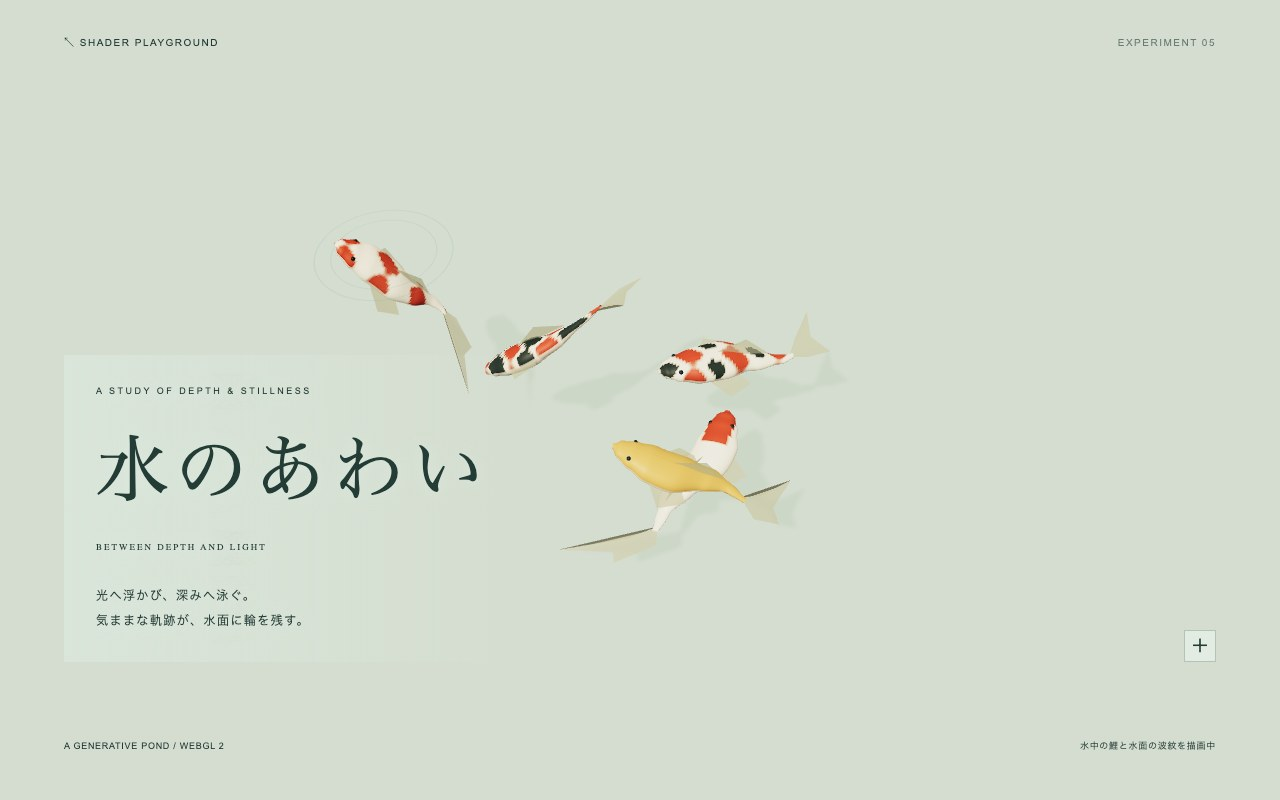
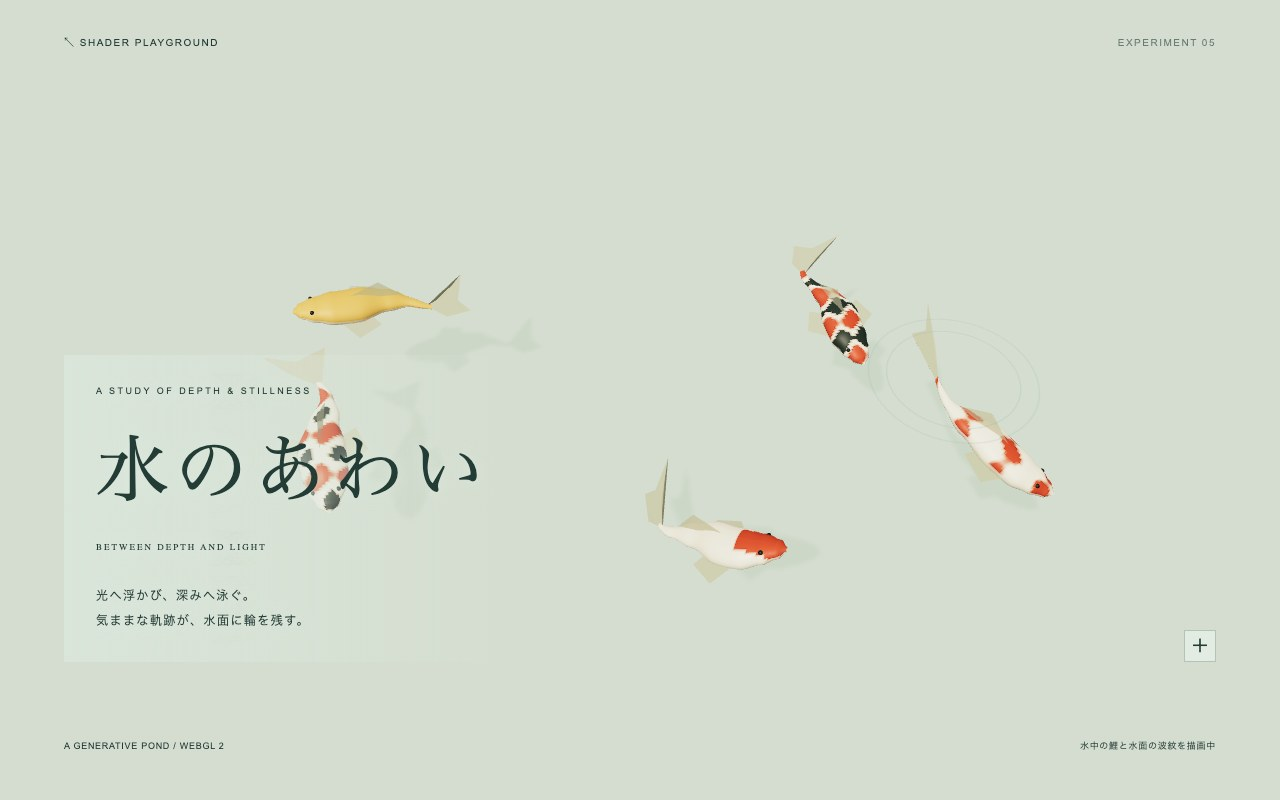
fix: let koi roam independently and steer back at boundaries

diff --git a/koi/fish.js b/koi/fish.js
@@ -26,35 +26,76 @@ export function dartStrength(time, id) {
     const clock = swimClock(time, id) / (5.8 + id * .23), segment = Math.floor(clock);
     return dartSegment(id, segment) ? Math.pow(Math.sin(Math.PI * (clock - segment)), 2) : 0;
 }
-// Seeded waypoints with a C2-continuous B-spline, rather than a closed orbit.
-// Its convex hull keeps the complete path within the swimming volume.
-export function sampleSwimPath(id, time, width, depth, target = new THREE.Vector3()) {
-    const clock = swimClock(time, id) / (5.8 + id * .23), segment = Math.floor(clock);
-    let u = clock - segment;
-    if (dartSegment(id, segment)) {
-        // A straight stroke accelerates in the middle, with C2 joins at both ends.
-        u += .75 / TAU * (-Math.sin(TAU * u) + .5 * Math.sin(2 * TAU * u));
+export function createSwimmer(id) {
+    const position = new THREE.Vector3(), velocity = new THREE.Vector3(), acceleration = new THREE.Vector3();
+    const direction = new THREE.Vector3(), wander = new THREE.Vector3(), desired = new THREE.Vector3(), previousVelocity = new THREE.Vector3();
+    const turn = new THREE.Quaternion(), partialTurn = new THREE.Quaternion();
+    const result = { position: new THREE.Vector3(), velocity, acceleration, dart: 0 };
+    let tick = 0, lastTime = -1, nextChange = 0, choice = 0, speed = .35, oldWidth = 0, oldDepth = 0;
+    function reset(width, depth) {
+        // Start spread out; their subsequent headings and turns stay independent.
+        const placement = id * 2.399963 + .55;
+        position.set(Math.cos(placement) * width * .72, id === 0 ? .94 : -.3 + randomPoint(id, 0, 9) * 1.1, Math.sin(placement) * depth * .72);
+        const angle = randomPoint(id, 0, 11) * TAU;
+        direction.set(Math.cos(angle), .25 * (randomPoint(id, 0, 12) * 2 - 1), Math.sin(angle)).normalize();
+        wander.copy(direction); velocity.copy(direction).multiplyScalar(.35); acceleration.set(0, 0, 0);
+        tick = 0; nextChange = 2 + id * .7; choice = 0; speed = .35; result.dart = 0; oldWidth = width; oldDepth = depth;
     }
-    const weights = [Math.pow(1 - u, 3) / 6, (3*u*u*u - 6*u*u + 4) / 6, (-3*u*u*u + 3*u*u + 3*u + 1) / 6, u*u*u / 6];
-    target.set(0, 0, 0);
-    for (let n = 0; n < 4; n++) {
-        const index = segment + n - 1, weight = weights[n];
-        const offset = id === 1 ? -1 : 3, lineIndex = ((index - offset) % 8 + 8) % 8;
-        if ((id === 1 || id === 4) && lineIndex <= 3) {
-            // Four equally spaced collinear controls give one truly straight leg.
-            const cycle = Math.floor((index - offset) / 8), progress = lineIndex / 3;
-            const direction = randomPoint(id, cycle, 5) > .5 ? 1 : -1;
-            target.x += (progress * 2 - 1) * width * .72 * direction * weight;
-            target.y += THREE.MathUtils.lerp(-.10 + randomPoint(id, cycle, 6) * .5, .25 + randomPoint(id, cycle, 7) * .55, progress) * weight;
-            target.z += (progress * 2 - 1) * depth * .45 * -direction * weight;
-            continue;
+    function update(time, width, depth) {
+        if (lastTime < 0 || time < lastTime) reset(width, depth);
+        if (width !== oldWidth || depth !== oldDepth) {
+            position.x *= width / oldWidth; position.z *= depth / oldDepth;
+            oldWidth = width; oldDepth = depth;
         }
-        const surfaceVisit = ((index + id * 2) % 9 + 9) % 9 < 3;
-        target.x += (randomPoint(id, index, 0) * 2 - 1) * width * .82 * weight;
-        target.y += (surfaceVisit ? 1.04 : -.45 + randomPoint(id, index, 1) * 1.15) * weight;
-        target.z += (randomPoint(id, index, 2) * 2 - 1) * depth * .82 * weight;
+        const dt = 1 / 60;
+        while ((tick + 1) * dt <= time + 1e-9) {
+            const t = ++tick * dt;
+            if (t >= nextChange) {
+                choice++;
+                const yaw = (randomPoint(id, choice, 0) * 2 - 1) * 1.15;
+                wander.copy(direction).applyAxisAngle(new THREE.Vector3(0, 1, 0), yaw);
+                wander.y = (randomPoint(id, choice, 1) * 2 - 1) * .55;
+                wander.normalize(); nextChange = t + 3 + randomPoint(id, choice, 2) * 4;
+            }
+            const clearance = Math.min(width - Math.abs(position.x), depth - Math.abs(position.z));
+            result.dart = dartStrength(t, id) * THREE.MathUtils.smoothstep(clearance, .65, 1.35);
+            desired.copy(direction).lerp(wander, 1 - result.dart);
+            // Only the nearby boundary steers inward; there is no centre target.
+            for (const [axis, bound, margin] of [['x', width, 1.05], ['z', depth, 1.05]]) {
+                const predicted = position[axis] + direction[axis] * .35;
+                const influence = THREE.MathUtils.smoothstep(Math.abs(predicted), bound - margin, bound);
+                desired[axis] -= Math.sign(predicted) * influence * 4;
+            }
+            const predictedY = position.y + direction.y * .7;
+            desired.y += 4 * THREE.MathUtils.smoothstep(-predictedY, .05, .40);
+            desired.y -= 4 * THREE.MathUtils.smoothstep(predictedY, .68, 1.0);
+            desired.y = THREE.MathUtils.clamp(desired.y, -.8, .8); desired.normalize();
+            turn.setFromUnitVectors(direction, desired);
+            partialTurn.identity().rotateTowards(turn, .85 * dt);
+            direction.applyQuaternion(partialTurn).normalize();
+            // Ease vertical motion to zero before the surface/bottom, even when
+            // a simultaneous side-wall turn occupies most of the steering.
+            const maxUp = Math.max(0, (1.02 - position.y) * 1.2 / Math.max(speed, .1));
+            const maxDown = Math.max(0, (position.y + .50) * 1.2 / Math.max(speed, .1));
+            const vertical = THREE.MathUtils.clamp(direction.y, -maxDown, maxUp);
+            const horizontalScale = Math.sqrt(Math.max(0, 1 - vertical * vertical)) / Math.max(Math.hypot(direction.x, direction.z), .0001);
+            direction.x *= horizontalScale; direction.z *= horizontalScale; direction.y = vertical;
+            const targetSpeed = ((.36 + .022 * id) * effort(t, id) + .65 * result.dart) * (.38 + .62 * THREE.MathUtils.smoothstep(clearance, .12, .85));
+            speed = THREE.MathUtils.lerp(speed, targetSpeed, 1 - Math.exp(-2 * dt));
+            previousVelocity.copy(velocity); velocity.copy(direction).multiplyScalar(speed);
+            for (const [axis, bound] of [['x', width - .04], ['z', depth - .04]]) {
+                velocity[axis] = THREE.MathUtils.clamp(velocity[axis], -Math.max(0, (position[axis] + bound) * 1.5), Math.max(0, (bound - position[axis]) * 1.5));
+            }
+            direction.copy(velocity).normalize();
+            position.addScaledVector(velocity, dt);
+            acceleration.copy(velocity).sub(previousVelocity).divideScalar(dt);
+        }
+        // Interpolate the substep remainder so rendering is independent of FPS.
+        result.position.copy(position).addScaledVector(velocity, time - tick * dt);
+        lastTime = time;
+        return result;
     }
-    return target;
+    return { update };
 }
 function pattern(x, z, id) {
     const stain = Math.sin(x * 12 + id * 3) + .65 * Math.cos(z * 19 - x * 5 + id);
@@ -116,29 +157,27 @@ export function createFish(id) {
         eye.position.set(.55, .067, sign * .13); group.add(eye); eyes.push(eye);
     }
     group.scale.setScalar(.84 + .06 * Math.sin(id * 2.3));
-    const position = new THREE.Vector3(), before = new THREE.Vector3(), after = new THREE.Vector3();
+    const swimmer = createSwimmer(id);
     const velocity = new THREE.Vector3(), right = new THREE.Vector3(), up = new THREE.Vector3();
     const matrix = new THREE.Matrix4(), roll = new THREE.Quaternion(), orientation = new THREE.Quaternion();
     let previousTime = null;
     const worldUp = new THREE.Vector3(0, 1, 0), localX = new THREE.Vector3(1, 0, 0);
     function update(t, bend, width, depth) {
-        sampleSwimPath(id, t, width, depth, position);
-        sampleSwimPath(id, t - .04, width, depth, before); sampleSwimPath(id, t + .04, width, depth, after);
-        velocity.subVectors(after, before);
-        const pace = velocity.length() / .08;
+        const motion = swimmer.update(t, width, depth);
+        velocity.copy(motion.velocity);
+        const pace = velocity.length();
         velocity.normalize();
         right.crossVectors(velocity, worldUp).normalize(); up.crossVectors(right, velocity).normalize();
         matrix.makeBasis(velocity, up, right); orientation.setFromRotationMatrix(matrix);
-        const acceleration = after.clone().add(before).addScaledVector(position, -2).multiplyScalar(1 / (.04 * .04));
-        const curvature = THREE.MathUtils.clamp(acceleration.dot(right) / Math.max(pace * pace, .0025), -.8, .8);
+        const curvature = THREE.MathUtils.clamp(motion.acceleration.dot(right) / Math.max(pace * pace, .0025), -.8, .8);
         roll.setFromAxisAngle(localX, THREE.MathUtils.clamp(curvature * .25, -.24, .24)); orientation.multiply(roll);
         // At a slow change of course, turn the body gradually instead of snapping.
         if (previousTime === null || t < previousTime) group.quaternion.copy(orientation);
         else group.quaternion.rotateTowards(orientation, .75 * (t - previousTime));
         previousTime = t;
-        group.position.copy(position);
+        group.position.copy(motion.position);
         const phase = swimClock(t, id) * (5.7 + id * .19) + id * 1.8;
-        const tailEffort = (.16 + .09 * effort(t, id)) * (1 - .40 * dartStrength(t, id));
+        const tailEffort = (.16 + .09 * effort(t, id)) * (1 - .40 * motion.dart);
         const turning = .5 * curvature * group.scale.x;
         function offset(x) {
             const weight = THREE.MathUtils.clamp((.55 - x) / 1.85, 0, 1);

diff --git a/koi/README.md b/koi/README.md
@@ -14,9 +14,11 @@
 
 - `app3d.js`：透視投影カメラ、ライティング、水底・水面、影、UIと描画ループ。
 - `fish.js`：厚みのある魚体のメッシュ、尾・胸びれ・背びれ・目を手続き生成。魚体は2145頂点。画像やモデル素材は使わない。
-- 個体IDと区間から生成したランダムな三次元の行き先を、C2連続のBスプラインでつなぐ。閉じた周回軌道ではなく、上下・前後・左右へ進路を変える。頭の旋回は毎秒約43度までに制限し、低速の折り返しでも急回転を抑える。
+- 個体ごとに独立した向きを持ち、その方向へ前進する。3〜7秒ごとに少し異なる三次元の方向を選ぶ。中央や他の魚を目指す力はなく、近づいた境界だけを先読みして減速・旋回する。水面と底にも同じ考え方で戻る動きを与える。
+- 遊泳状態は1/60秒の固定刻みで進め、描画時に残り時間を補間する。リセットは固定シードから再現し、画面サイズ変更時は遊泳位置の割合を保つ。頭の旋回は毎秒約43度までに制限する。
+- 開始位置も画面内に分散させる。端への進行成分は距離に応じて滑らかに減らし、急な位置補正や跳ね返りを避ける。個体間の追従や中央への誘導は行わない。
 - 個体ごとにずれた加速・滑走のリズムを積分し、位置を飛ばさず速さを変える。進行クロックの倍率は約0.5〜1.5、尾の周期と振幅も連動する。最初から操作では同じ動きに戻る。
-- 三色の鯉と金色の鯉には、時間をずらして短い直進・加速区間を追加。三次元の直線上に置いた4つの制御点で進路をまっすぐにし、区間中央で進行を最大2.5倍に加速する。出入りの速度・加速度は連続し、直進中は魚体の揺れを最大40%抑える。他の個体は普段の遊泳を続ける。
+- 三色の鯉と金色の鯉には、時間をずらして短い直進・加速を追加。向きの変化を抑えながら速さを上げ、直進中は魚体の揺れを最大40%抑える。端までの余裕が少ないときは直進・加速を弱め、境界から戻る動きを優先する。他の個体は普段の遊泳を続ける。
 - `ripples.js`：水面近く（魚体中心y≥0.88）にいる魚から二重の波紋を生成。実際の水面高y=1.24に配置し、3.6秒で広がって消える。32枚のリングを再利用し、停止・速度調整・リセットに連動する。
 - 経路の曲率に応じて胴を曲げ、頭から尾へ振幅を増す進行波で尾柄・尾びれを動かす。胸びれには別の緩やかな揺れを与える。
 - 紅白・大正三色・昭和三色・丹頂・山吹黄金・浅黄・白べっ甲風の7系統を参考にした配色（厳密な品種再現ではない）。初期5匹、最大7匹。
@@ -30,7 +32,9 @@
 
 `node --check koi/app3d.js` / `koi/fish.js`、`git diff --check`。Chromeの1280×800 / 390×844で実描画、パネル開閉、1〜7匹の調整、一時停止・再開、モーション低減、コンテキスト復帰を確認。モデルの頂点が有限値で、実際に高さ・奥行きが変化することを検証。外部リクエスト・コンソールエラーなし。実機スマートフォンのGPU性能とSafariは未確認。
 
-ランダム経路は7匹×180秒を0.1秒刻みで検証し、遊泳中心の範囲・決定論的なリセット・上下両方向の進行を確認。速度クロック倍率は約0.501〜1.497、魚体の旋回は0.1秒で0.075ラジアン以下。水面近くでの二重波紋、拡大、消失、深い位置では発生しないこと、リセットで消えることを実装モジュールから確認しています。
+速度クロック倍率は約0.501〜1.497、魚体の旋回は0.1秒で0.075ラジアン以下。水面近くでの二重波紋、拡大、消失、深い位置では発生しないこと、リセットで消えることを実装モジュールから確認しています。
+
+自由遊泳はPC用・縦長画面用の2範囲で7匹×240秒を検証。範囲内を広く移動し、端では内側へ戻ること、直進加速が残ること、リセット再現性、30fpsと60fpsで位置が一致することを確認しました。
 
 ## UI調整
 
